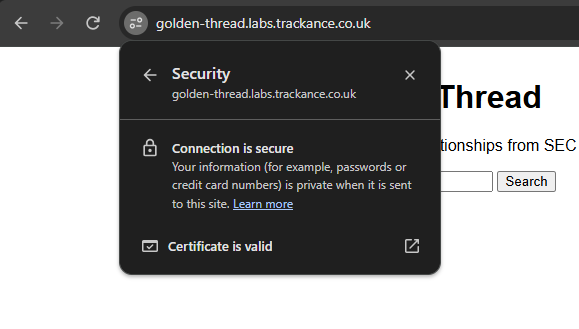
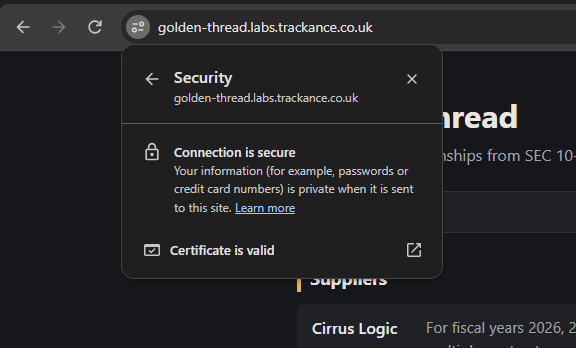
Update docs

diff --git a/README.md b/README.md
@@ -77,6 +77,7 @@ Runs on my existing AKS platform as a second app, at [golden-thread.labs.trackan
 - **Pipeline** runs as a weekly CronJob and logs in to Azure with workload identity, so no keys
 - **API** serves the search page with 2 replicas, health checks, HTTPS and rate limiting, using fixed read-only queries
 - **Neo4j** has a private cluster address only, with memory limits and its own disk
+- **Alerts** check the SEC hourly for new 8-K filings and show which suppliers and customers could be affected, with no AI involved
 
 ![ArgoCD](results/argocd.png)
 
@@ -106,4 +107,4 @@ python app/load.py
 - [x] Neo4j graph
 - [x] Terraform for the Azure AI setup
 - [x] Platform on AKS with GitOps
-- [ ] Live Alerts
+- [x] Live Alerts
